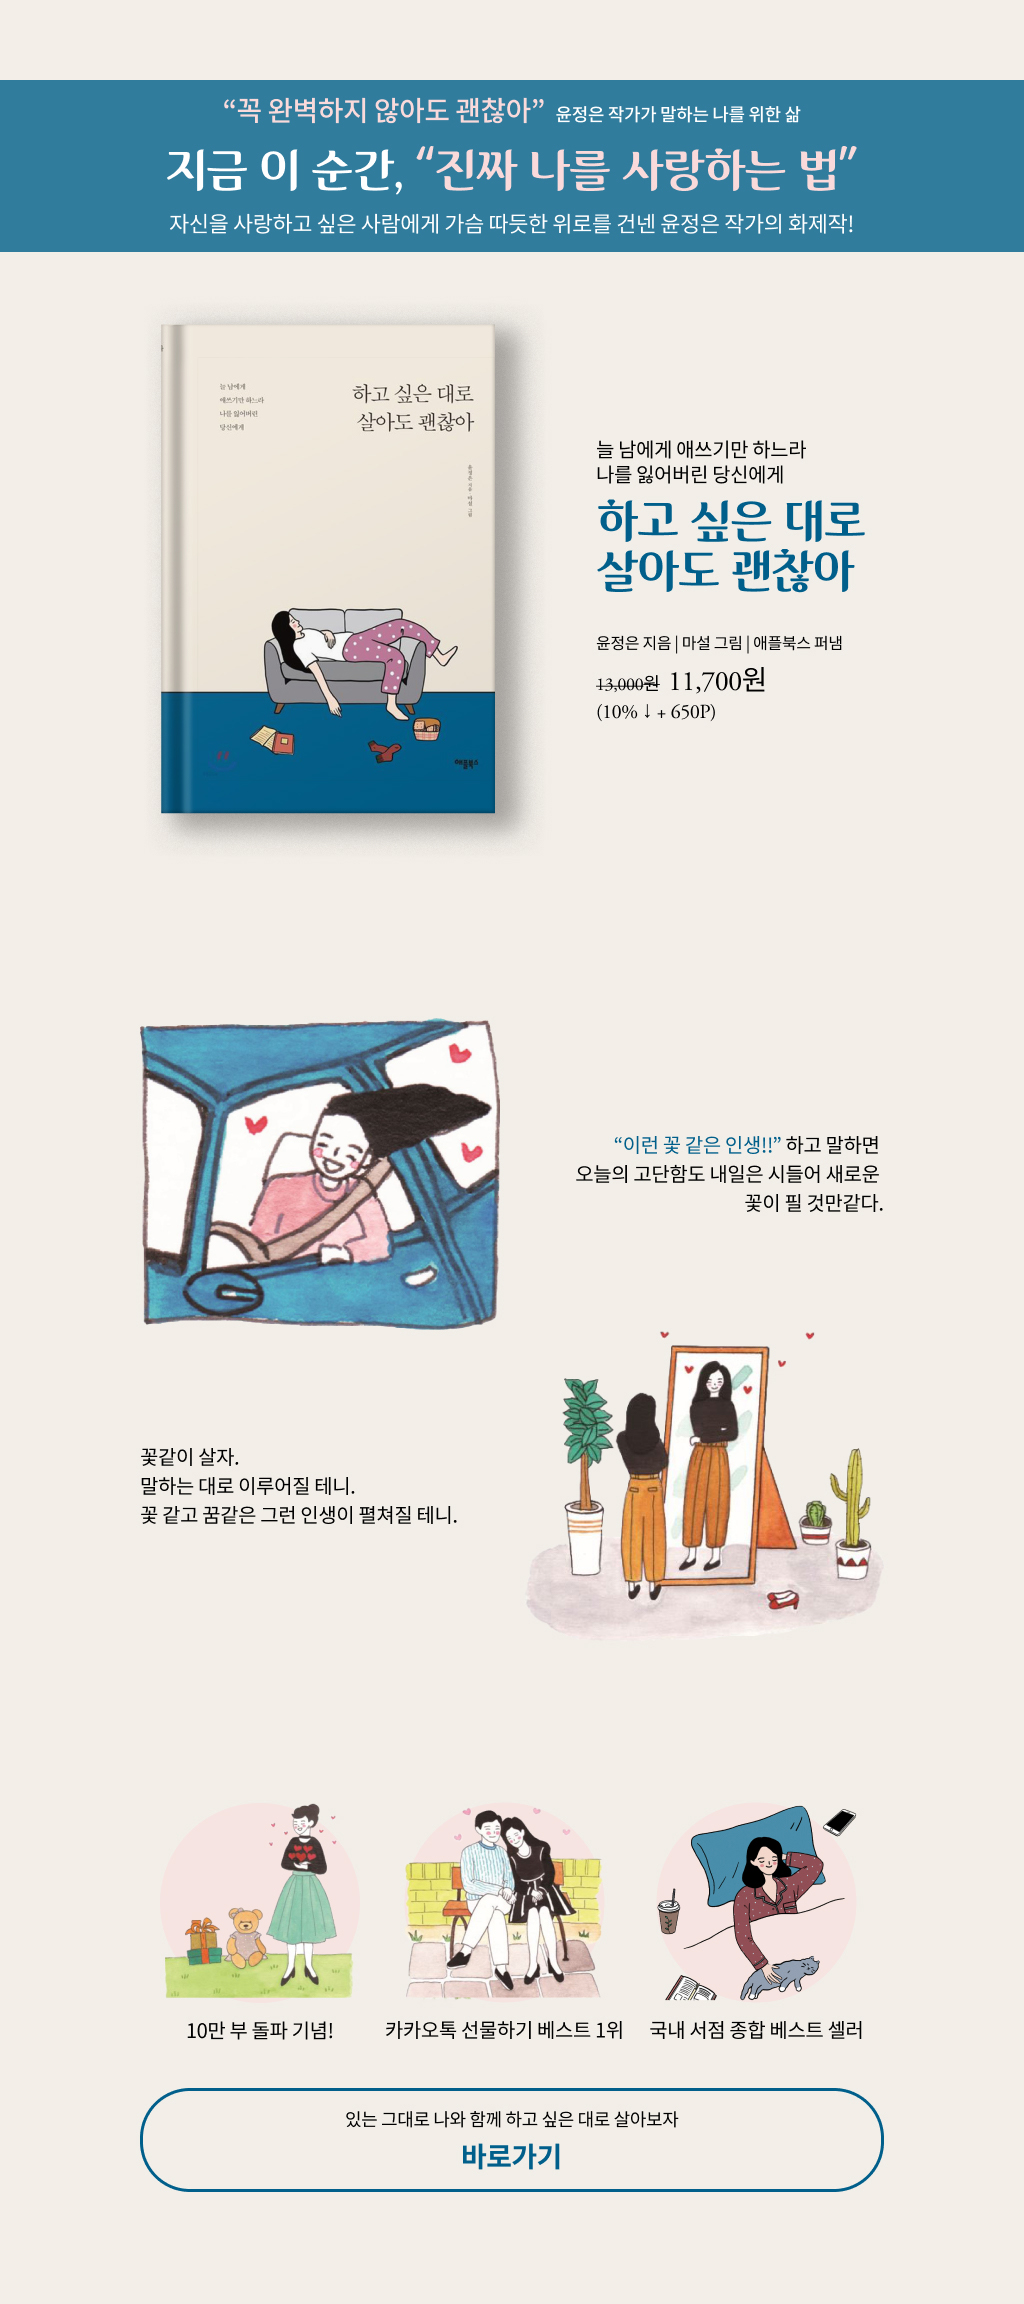
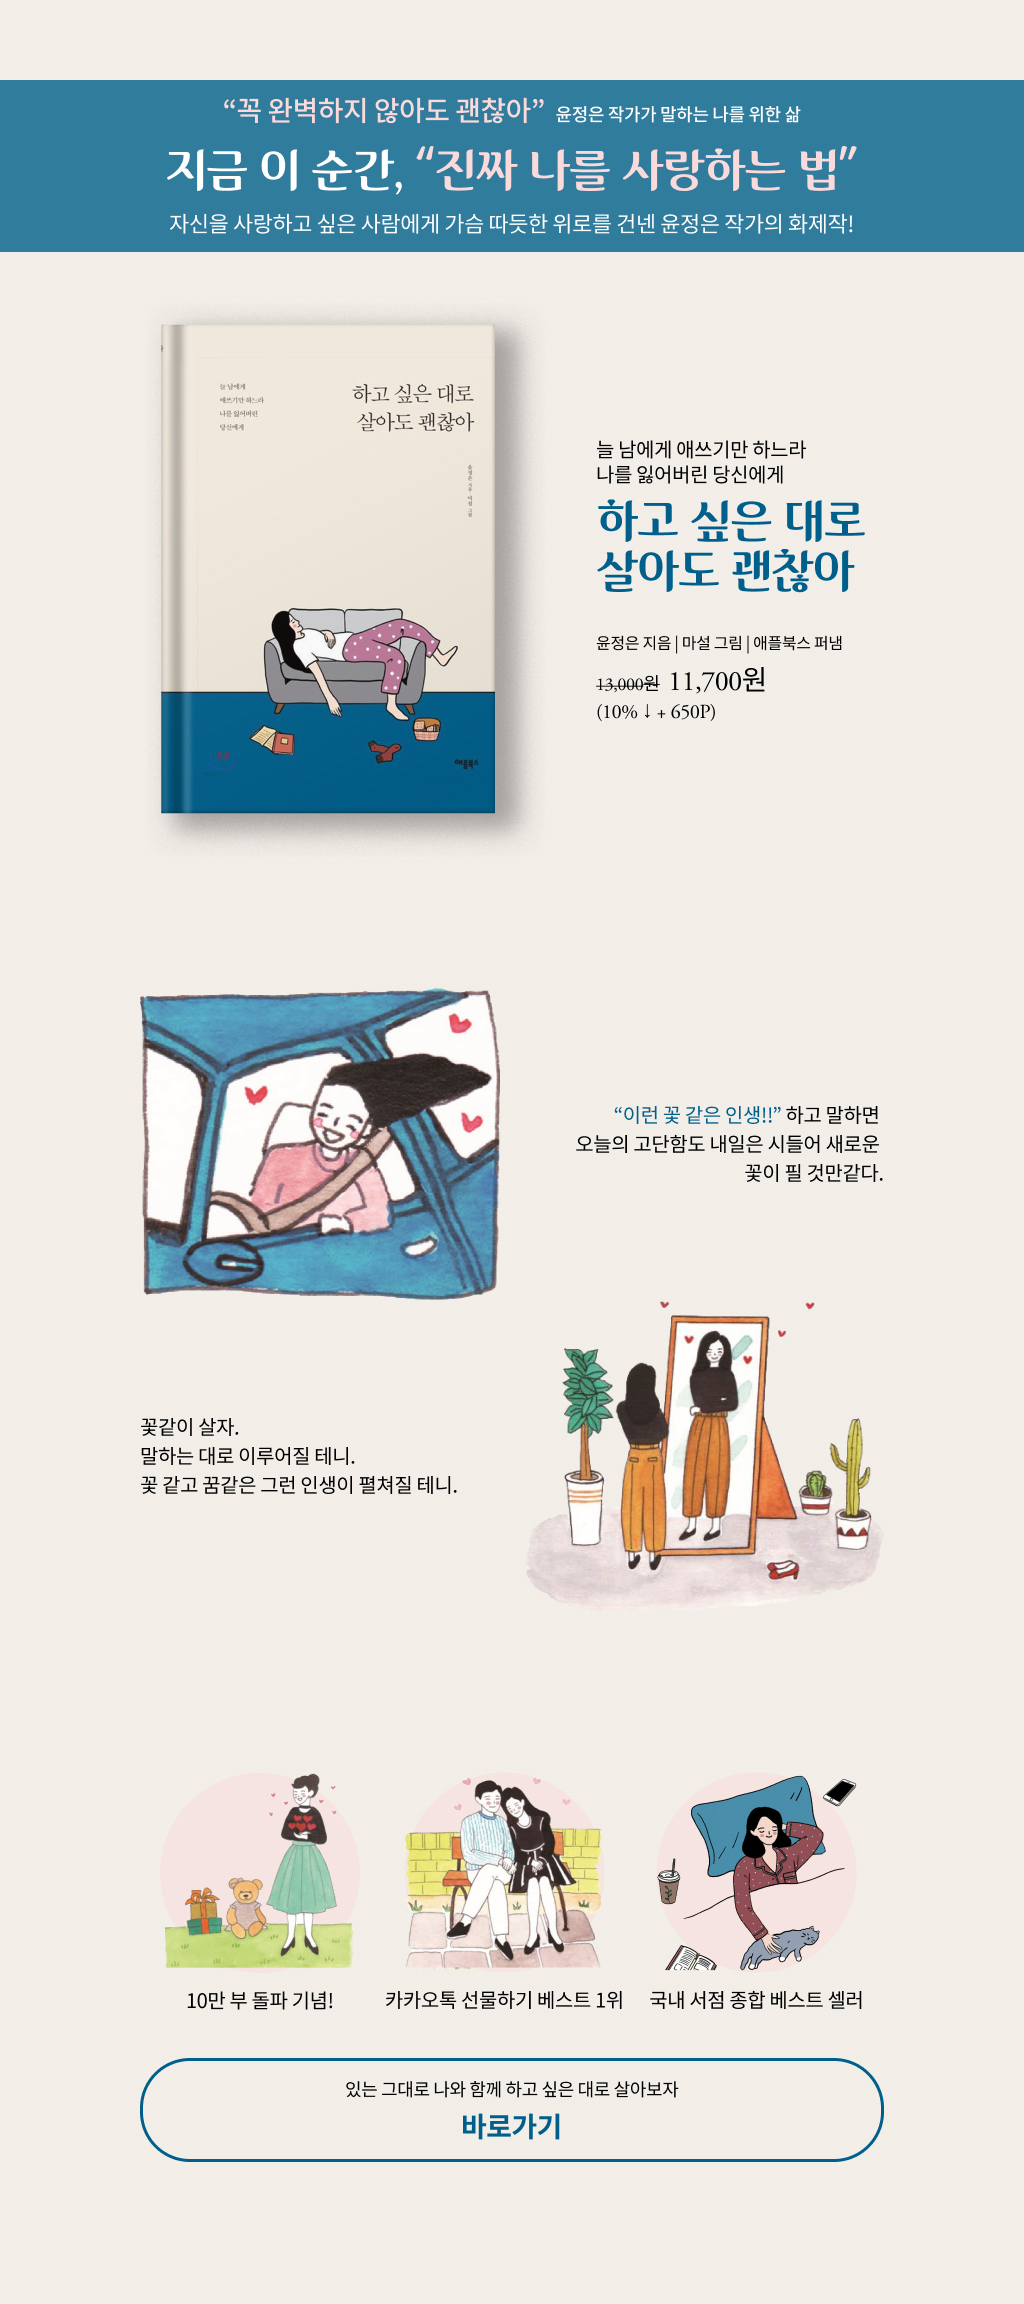
상세페이지팝업

diff --git a/style/index.css b/style/index.css
@@ -385,7 +385,6 @@ main #design_card_news .con .card_news_wrap .card_news img {
 }
 main #design_card_news .con .card_news_wrap .card_news:hover {
     transform:scale(1.03);
-    transition:transform 0.5s;
 }
 main #design_card_news .con .card_news_wrap .card_news:hover img {
     filter:none;
@@ -402,10 +401,16 @@ main #design_detail_page .con .design_detail_page_wrap {
     display: flex; flex-flow: row nowrap; justify-content:center;
 }
 main #design_detail_page .con .design_detail_page_wrap .detail_page {
-    width:30%; margin:30px;
+    margin:0 50px;
 }
 main #design_detail_page .con .design_detail_page_wrap .detail_page img {
-    width:400px; 
+    width:350px; 
+    filter:grayscale(80%);
+    transition:transform 0.5s;
+}
+main #design_detail_page .con .design_detail_page_wrap .detail_page:hover img {
+    filter:none;
+    transform:scale(1.01);
 }
 
 /* last_page */
@@ -437,7 +442,9 @@ main #last_page h1 {
     pointer-events:none;
 }
 
+
 /* popup */
+/* sns_popup */
 #sns_popup {
     position:fixed; left:0; top:0;
     width:100%; height:100vh; z-index:9999;
@@ -451,6 +458,7 @@ main #last_page h1 {
 }
 #sns_popup .contents img {width:100%;}
 
+/* bnr_popup */
 #bnr_popup {
     position:fixed; left:0; top:0;
     width:100%; height:100vh; z-index:9999;
@@ -463,6 +471,7 @@ main #last_page h1 {
 }
 #bnr_popup .contents img {width:100%;}
 
+/* card_popup */
 #card_popup {
     position:fixed; left:0; top:0;
     width:100%; height:100vh; z-index:9999;
@@ -476,6 +485,7 @@ main #last_page h1 {
 }
 #card_popup .contents img {width:100%;}
 
+/* detail_popup */
 #detail_popup {
     position:fixed; left:0; top:0;
     width:100%; height:100vh; z-index:9999;
@@ -483,7 +493,7 @@ main #last_page h1 {
 }
 #detail_popup .contents {
     background:black;
-    width:600px; height:900px;
+    width:700px; height:900px;
     margin:30px auto 0; 
     overflow-y:auto;/* 새로가 부족할 시 스크롤 나오게 하기 */
 }

diff --git a/index.html b/index.html
@@ -251,6 +251,7 @@
                 <div class="design_detail_page_wrap">
                     <a href="#" class="detail_page"><img src="./images/detail/detail1.jpg" alt=""></a>
                     <a href="#" class="detail_page"><img src="./images/detail/detail2.jpg" alt=""></a>
+                    <a href="#" class="detail_page"><img src="./images/detail/detail3.jpg" alt=""></a>
                 </div>
             </div>
         </section>
